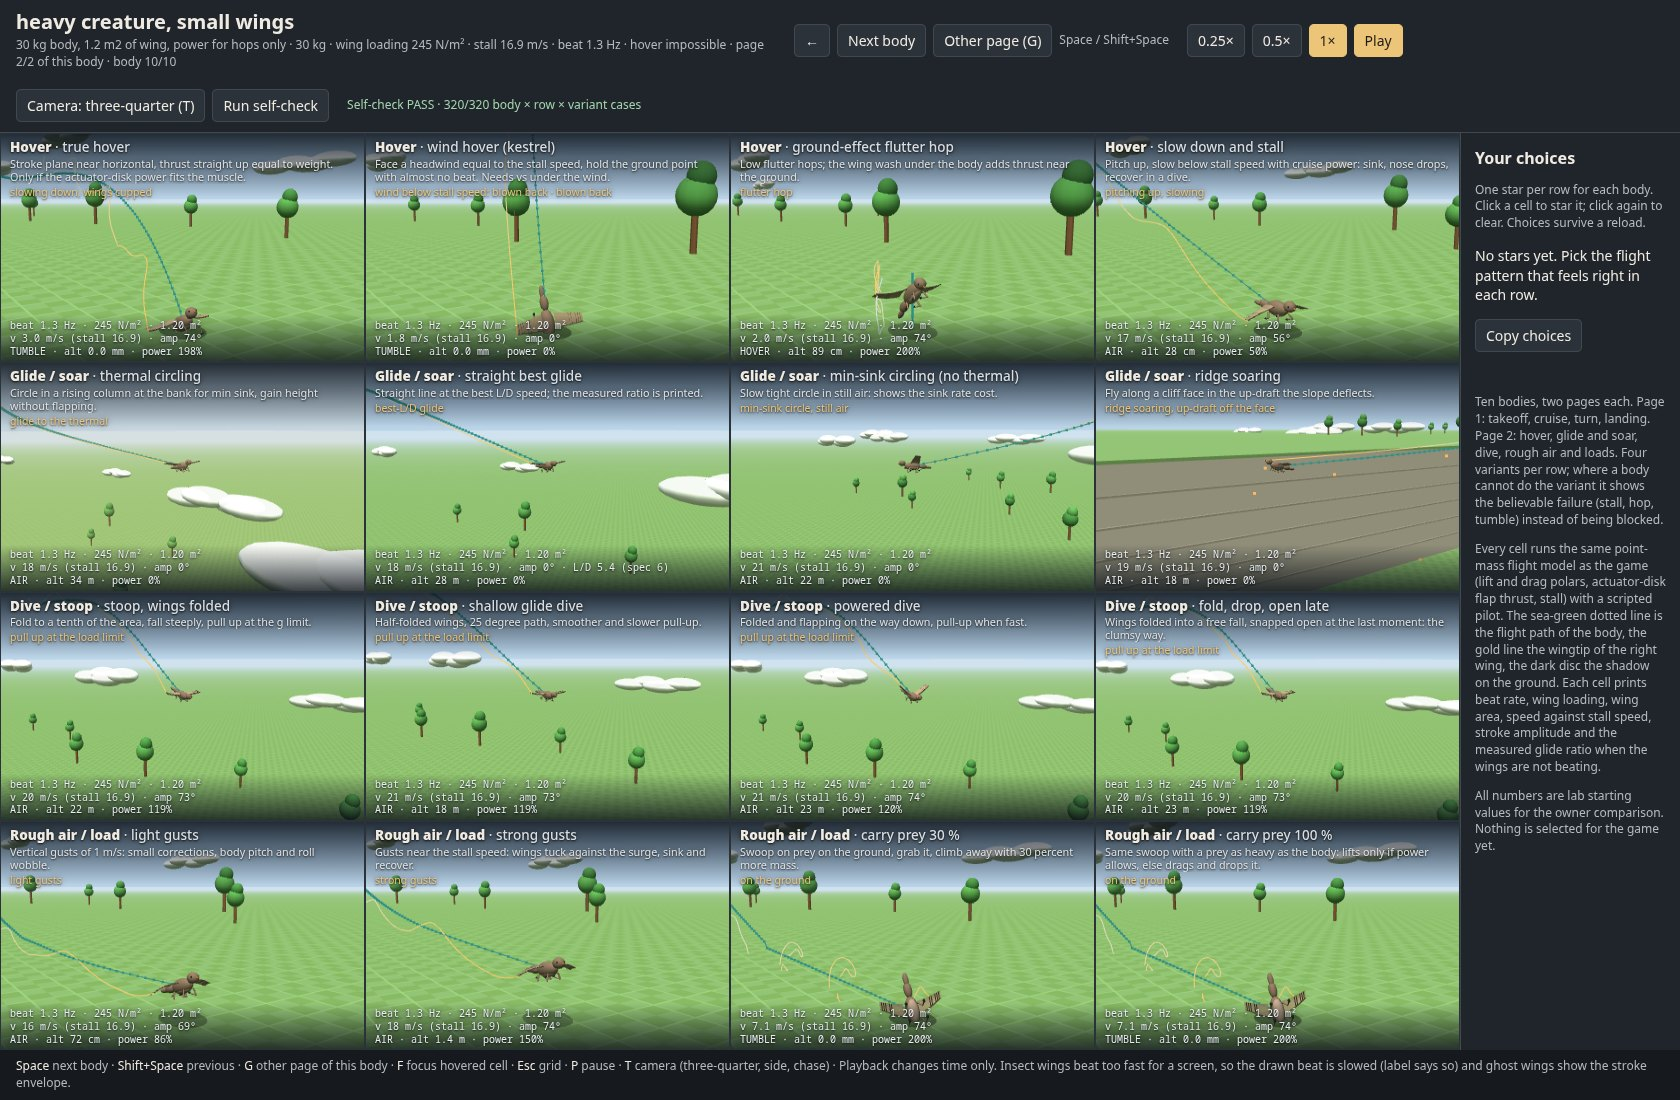
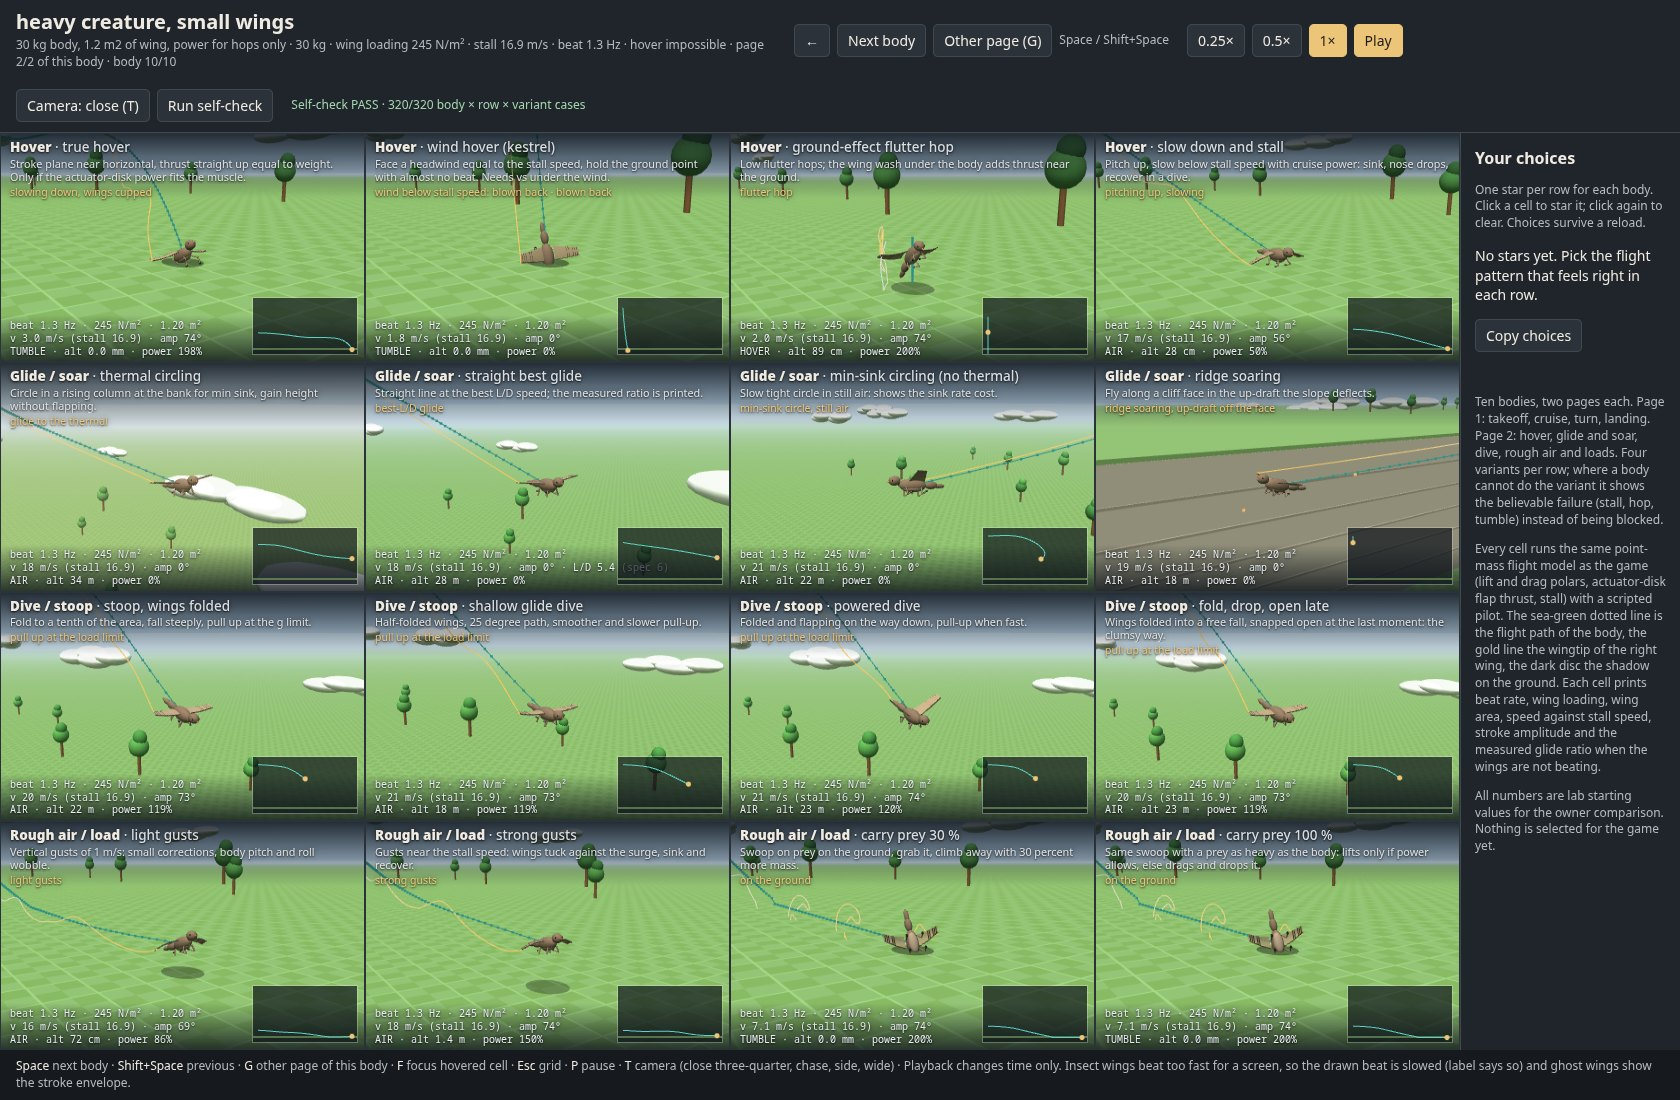
Flight styles: close follow camera by default (close 3/4, chase, side, wide) and a path mini-map per cell; re-captured

diff --git a/web/gaitlab/flight.html b/web/gaitlab/flight.html
@@ -12,7 +12,7 @@ html,body{height:100%}body{display:flex;flex-direction:column}main{display:grid;
 .cell::before{content:"";position:absolute;left:0;right:0;top:0;height:64px;background:linear-gradient(#0c1218d8,#0c121800);pointer-events:none}.cell::after{content:"";position:absolute;left:0;right:0;bottom:0;height:46px;background:linear-gradient(#0c121800,#0c1218cc);pointer-events:none}
 .title,.description,.adapt,.star,.metrics{position:relative;z-index:1}
 .title{display:block;font-size:13.5px;font-weight:650;line-height:1.15;padding-right:22px}.title i{font-style:normal;color:#d7dde2;font-weight:500}.cell[data-row=turn] .title b{color:var(--turn)}.description{display:block;color:#dfe3e6;font-size:10.8px;margin-top:2px;line-height:1.2;max-height:2.45em;overflow:hidden}.adapt{display:block;font-size:10.5px;color:var(--gold);line-height:1.2;margin-top:2px;min-height:1.2em}.star{position:absolute;right:8px;top:3px;font-size:20px;color:var(--gold)}
-.metrics{position:absolute;bottom:4px;left:9px;font:10px/1.28 ui-monospace,monospace;color:#e8eef2;white-space:pre}.cell[hidden]{display:none}
+.mini{position:absolute;right:6px;bottom:6px;z-index:1;border:1px solid #ffffff40;pointer-events:none}.metrics{position:absolute;bottom:4px;left:9px;font:10px/1.28 ui-monospace,monospace;color:#e8eef2;white-space:pre}.cell[hidden]{display:none}
 aside{padding:14px;background:var(--panel);border-left:1px solid var(--line);overflow:auto;min-height:0}h2{font-size:16px;margin:0 0 8px}aside p{font-size:12px;color:var(--dim)}#choices{margin:14px 0}#choices p{margin:10px 0;color:var(--ink)}#choices strong{display:block;color:var(--gold)}#copy-status{min-height:18px}textarea{width:100%;min-height:100px;color:var(--ink);background:var(--bg);border:1px solid var(--line);padding:6px}
 footer{padding:8px 16px;color:var(--dim);font-size:12px}kbd{font:inherit;color:var(--ink)}
 #stage.expanded{position:fixed;inset:0;height:100vh;min-height:0;z-index:10;background:var(--bg)}#stage.expanded #cells{display:block}#stage.expanded .cell{width:100%;height:100%;padding:24px}#stage.expanded .title{font-size:24px}#stage.expanded .description{font-size:14px}#stage.expanded .adapt{font-size:14px}#stage.expanded .metrics{font-size:13px}#close-full{position:absolute;right:15px;bottom:40px;z-index:12}#check.fail{color:#ff998c}#check.pass{color:#a3d4ad}
@@ -26,12 +26,12 @@ footer{padding:8px 16px;color:var(--dim);font-size:12px}kbd{font:inherit;color:v
 <div id="identity"><h1 id="creature-name">starter B</h1><div id="body-note"></div></div>
 <div class="controls"><button id="prev" aria-label="Previous body">←</button><button id="next">Next body</button><button id="other" title="Other page of the same body (G)">Other page (G)</button><span class="hint">Space / Shift+Space</span></div>
 <div class="controls" id="playback" aria-label="Playback"><button data-rate=".25" aria-pressed="false">0.25×</button><button data-rate=".5" aria-pressed="false">0.5×</button><button data-rate="1" aria-pressed="true">1×</button><button id="pause" aria-pressed="false">Pause</button></div>
-<div class="controls"><button id="cam" aria-pressed="false" title="Three-quarter, side or chase camera (T)">Camera (T)</button><button id="runcheck">Run self-check</button></div>
+<div class="controls"><button id="cam" aria-pressed="false" title="Close three-quarter, chase, side or wide camera (T)">Camera (T)</button><button id="runcheck">Run self-check</button></div>
 <span id="check" role="status">20 pages · 10 bodies × 8 rows × 4 variants · self-check not run</span>
 </header>
 <main><div id="stage"><canvas id="gl" aria-label="Flight movement comparisons over a field with trees, four columns per row"></canvas><div id="cells"></div><button id="close-full" hidden>Exit full view · Esc</button></div>
 <aside><h2>Your choices</h2><p>One star per row for each body. Click a cell to star it; click again to clear. Choices survive a reload.</p><div id="choices"></div><button id="copy">Copy choices</button><p id="copy-status" role="status" aria-live="polite"></p><textarea id="copy-fallback" aria-label="Choices to copy manually" hidden readonly></textarea><p>Ten bodies, two pages each. Page 1: takeoff, cruise, turn, landing. Page 2: hover, glide and soar, dive, rough air and loads. Four variants per row; where a body cannot do the variant it shows the believable failure (stall, hop, tumble) instead of being blocked.</p><p>Every cell runs the same point-mass flight model as the game (lift and drag polars, actuator-disk flap thrust, stall) with a scripted pilot. The sea-green dotted line is the flight path of the body, the gold line the wingtip of the right wing, the dark disc the shadow on the ground. Each cell prints beat rate, wing loading, wing area, speed against stall speed, stroke amplitude and the measured glide ratio when the wings are not beating.</p><p>All numbers are lab starting values for the owner comparison. Nothing is selected for the game yet.</p></aside></main>
-<footer><kbd>Space</kbd> next body · <kbd>Shift+Space</kbd> previous · <kbd>G</kbd> other page of this body · <kbd>F</kbd> focus hovered cell · <kbd>Esc</kbd> grid · <kbd>P</kbd> pause · <kbd>T</kbd> camera (three-quarter, side, chase) · Playback changes time only. Insect wings beat too fast for a screen, so the drawn beat is slowed (label says so) and ghost wings show the stroke envelope.</footer>
+<footer><kbd>Space</kbd> next body · <kbd>Shift+Space</kbd> previous · <kbd>G</kbd> other page of this body · <kbd>F</kbd> focus hovered cell · <kbd>Esc</kbd> grid · <kbd>P</kbd> pause · <kbd>T</kbd> camera (close three-quarter, chase, side, wide) · Playback changes time only. Insect wings beat too fast for a screen, so the drawn beat is slowed (label says so) and ghost wings show the stroke envelope.</footer>
 <script>
 'use strict';
 (() => {
@@ -1151,16 +1151,16 @@ function placeProps(C,cam){
 const FOV=34;
 function placeCam(C,cam,aspect,mode,dt){
   const B=C.B,F=C.F;const bw=Math.max(B.b,3.2*B.L);
-  const wantH=clamp(.95*(F.pos.y+bw),2.2*bw,4.4*bw);
+  const wide=mode==='wide';const wantH=wide?clamp(.95*(F.pos.y+bw),2.2*bw,4.4*bw):2.5*bw;
   C.vh+=(wantH-C.vh)*Math.min(1,dt*3+.02);
   const Hv=C.vh,D=(Hv/2)/Math.tan(FOV*D2R/2)*(mode==='side'?1:1.05);
   C.cx+=(F.pos.x-C.cx)*Math.min(1,dt*8+.02);C.cz+=(F.pos.z-C.cz)*Math.min(1,dt*8+.02);
-  const cy=Math.max(.4*Hv,F.pos.y-.05*Hv);
+  const cy=wide?Math.max(.4*Hv,F.pos.y-.05*Hv):F.pos.y+.04*Hv;
   cam.fov=FOV;cam.aspect=aspect;cam.near=D*.02;cam.far=D*400;
   let px,py,pz,tx=C.cx,ty=cy,tz=C.cz;
   if(mode==='side'){px=tx;py=ty;pz=tz+D;}
-  else if(mode==='chase'){const h=F.psiB;const el=.30;px=F.pos.x-Math.cos(h)*D*Math.cos(el);pz=F.pos.z-Math.sin(h)*D*Math.cos(el);py=Math.max(F.pos.y,.3*Hv)+D*Math.sin(el)*.7;tx=F.pos.x+Math.cos(h)*.12*Hv;tz=F.pos.z+Math.sin(h)*.12*Hv;ty=Math.max(F.pos.y*.7,.32*Hv);}
-  else{px=tx+D*.82;py=ty+D*.13;pz=tz+D*.57;}
+  else if(mode==='chase'){const h=F.psiB;const el=.30;px=F.pos.x-Math.cos(h)*D*Math.cos(el);pz=F.pos.z-Math.sin(h)*D*Math.cos(el);py=F.pos.y+D*Math.sin(el)*.8;tx=F.pos.x+Math.cos(h)*.1*Hv;tz=F.pos.z+Math.sin(h)*.1*Hv;ty=F.pos.y;}
+  else{px=tx+D*.82;py=ty+D*(wide?.13:.2);pz=tz+D*.57;}
   cam.position.set(px,py,pz);cam.lookAt(tx,ty,tz);cam.updateProjectionMatrix();
   C.dome.position.copy(cam.position);C.dome.scale.setScalar(cam.far*.8);
   return D;
@@ -1170,7 +1170,7 @@ function placeCam(C,cam,aspect,mode,dt){
 const $=id=>document.getElementById(id);
 const PAGES=[];BODIES.forEach((b,bi)=>[0,1].forEach(h=>PAGES.push({b,bi,half:h,rows:ROWS.slice(4*h,4*h+4)})));
 const KEY='primigenia-flight-styles-v1';
-let pageIndex=0,rate=1,paused=false,cells=[],hovered=0,focused=-1,manual=false,camMode='three-quarter';
+let pageIndex=0,rate=1,paused=false,cells=[],hovered=0,focused=-1,manual=false,camMode='close';
 let choices={};try{choices=JSON.parse(localStorage.getItem(KEY)||'{}');if(!choices||typeof choices!=='object'||Array.isArray(choices))choices={};}catch{choices={};}
 const renderer=new THREE.WebGLRenderer({canvas:$('gl'),antialias:true,preserveDrawingBuffer:true});renderer.setPixelRatio(1);renderer.setClearColor('#cfe2ee');
 let W=1,H=1;
@@ -1191,7 +1191,7 @@ function selectPage(i){
   const P=PAGES[pageIndex],b=P.b;$('cells').style.setProperty('--rows',4);$('cells').replaceChildren();
   P.rows.forEach((rk,r)=>{b.rowVars[rk].forEach((vid,v)=>{
     const el=document.createElement('button');el.className='cell';el.dataset.row=rk;el.setAttribute('aria-pressed','false');
-    el.innerHTML='<span class="title"><b></b> <i></i></span><span class="description"></span><span class="adapt"></span><span class="star" aria-hidden="true"></span><span class="metrics"></span>';
+    el.innerHTML='<span class="title"><b></b> <i></i></span><span class="description"></span><span class="adapt"></span><span class="star" aria-hidden="true"></span><span class="metrics"></span><canvas class="mini" width="104" height="56"></canvas>';
     const idx=r*4+v;el.addEventListener('pointerenter',()=>hovered=idx);el.addEventListener('focus',()=>hovered=idx);el.addEventListener('click',()=>toggle(idx));$('cells').appendChild(el);
     const C=makeCell(P,rk,vid);C.el=el;cells.push(C);
     el.querySelector('b').textContent=ROWLABEL[rk];el.querySelector('i').textContent='· '+VAR[rk][vid][0];el.querySelector('.description').textContent=VAR[rk][vid][1];
@@ -1227,17 +1227,23 @@ function renderAll(dt){
     const D=placeCam(C,C.cam,cw/ch,camMode,dt);placeProps(C,C.cam);updateRig(C.rig,C.B,C.F);
     C.S.fog.near=D*2.2;C.S.fog.far=D*40;
     renderer.setViewport(x,H-y-ch,cw,ch);renderer.setScissor(x,H-y-ch,cw,ch);renderer.render(C.S,C.cam);
-    C.el.querySelector('.metrics').textContent=label(C);
+    C.el.querySelector('.metrics').textContent=label(C);drawMini(C);
     const F=C.F;const ad=C.el.querySelector('.adapt');const oc=F.done?outcomeOf(C.B,C.row,C.vid,F):'';ad.textContent=F.ph+(oc?' · '+oc:'');
   });
 }
+function drawMini(C){const cv=C.el.querySelector('.mini'),x=cv.getContext('2d'),w=104,h=56;x.clearRect(0,0,w,h);x.fillStyle='#0c1218b0';x.fillRect(0,0,w,h);
+  const n=C.pathN,p=C.pathPos;if(n<2)return;let x0=1e9,x1=-1e9,y1=0;for(let i=700-n;i<700;i++){x0=Math.min(x0,p[i*3]);x1=Math.max(x1,p[i*3]);y1=Math.max(y1,p[i*3+1]);}
+  const gy=C.F.env.ground(C.F.pos.x,0);y1=Math.max(y1,gy+1e-6);const sx=(w-10)/Math.max(x1-x0,y1*1.5,1e-9),sy=(h-12)/Math.max(y1,1e-9),s=Math.min(sx,sy);
+  const X=v=>5+(v-x0)*s,Y=v=>h-5-v*s;x.strokeStyle='#8fbf72';x.beginPath();x.moveTo(0,Y(0));x.lineTo(w,Y(0));x.stroke();
+  x.strokeStyle='#5fd0c4';x.beginPath();for(let i=700-n;i<700;i++){const px=X(p[i*3]),py=Y(p[i*3+1]-C.B.hcom);i===700-n?x.moveTo(px,py):x.lineTo(px,py);}x.stroke();
+  x.fillStyle='#edc578';x.beginPath();x.arc(X(C.F.pos.x),Y(C.F.pos.y-C.B.hcom),2.5,0,7);x.fill();}
 function focusCell(i){if(i>=0&&document.fullscreenEnabled&&!document.fullscreenElement)$('stage').requestFullscreen().catch(()=>{});else if(i<0&&document.fullscreenElement)document.exitFullscreen().catch(()=>{});focused=i;$('stage').classList.toggle('expanded',i>=0);$('close-full').hidden=i<0;cells.forEach((C,k)=>C.el.hidden=i>=0&&k!==i);layout();renderAll(0);}
 function setPause(v){paused=v;$('pause').textContent=v?'Play':'Pause';$('pause').setAttribute('aria-pressed',String(v));}
-const CAMS=['three-quarter','side','chase'];
-function setCam(m){camMode=m;$('cam').textContent='Camera: '+m+' (T)';$('cam').setAttribute('aria-pressed',String(m!=='three-quarter'));for(const C of cells)C.vh=C.vh;renderAll(1);}
+const CAMS=['close','chase','side','wide'];
+function setCam(m){camMode=m;$('cam').textContent='Camera: '+m+' (T)';$('cam').setAttribute('aria-pressed',String(m!=='close'));for(const C of cells)C.vh=C.vh;renderAll(1);}
 document.addEventListener('fullscreenchange',()=>{if(!document.fullscreenElement&&focused>=0)focusCell(-1);else layout();});
 const nextBody=d=>{const P=PAGES[pageIndex];selectPage(((P.bi+d+BODIES.length)%BODIES.length)*2+P.half);};
-$('prev').onclick=()=>nextBody(-1);$('next').onclick=()=>nextBody(1);$('close-full').onclick=()=>focusCell(-1);$('pause').onclick=()=>setPause(!paused);$('cam').onclick=()=>setCam(CAMS[(CAMS.indexOf(camMode)+1)%3]);
+$('prev').onclick=()=>nextBody(-1);$('next').onclick=()=>nextBody(1);$('close-full').onclick=()=>focusCell(-1);$('pause').onclick=()=>setPause(!paused);$('cam').onclick=()=>setCam(CAMS[(CAMS.indexOf(camMode)+1)%4]);
 $('other').onclick=()=>{const P=PAGES[pageIndex];selectPage(P.bi*2+(1-P.half));};
 for(const button of document.querySelectorAll('[data-rate]'))button.onclick=()=>{rate=Number(button.dataset.rate);document.querySelectorAll('[data-rate]').forEach(x=>x.setAttribute('aria-pressed',String(x===button)));};
 $('copy').onclick=async()=>{const text=choicesText();if(!text){$('copy-status').textContent='Star a cell first.';return;}try{if(!navigator.clipboard)throw Error('unavailable');await navigator.clipboard.writeText(text);$('copy-status').textContent='Copied. Paste into chat.';$('copy-fallback').hidden=true;}catch{const area=$('copy-fallback');area.hidden=false;area.value=text;area.focus();area.select();let copied=false;try{copied=document.execCommand('copy');}catch{}$('copy-status').textContent=copied?'Copied. Paste into chat.':'Press Ctrl+C / Cmd+C to copy the selected choices.';}};

diff --git a/docs/evidence/loco/flight.md b/docs/evidence/loco/flight.md
@@ -1,6 +1,6 @@
 # Flight-style picker (owner 2026-11-22: "I want to debug flying movement patterns. Let's make the same exercise")
 
-Open [flight.html](../../../web/gaitlab/flight.html) directly with `file://` (local three.js r128, no network). Same shell as the move-style rounds ([styles4.md](styles4.md)): **Space / Shift+Space** next / previous body, **G** other page of the same body, click a cell to star it (one star per row), **Copy choices** gives `<body>: <row>=<variant>; ...`, **F** focus the hovered cell, **Esc**, **P** pause, 0.25x / 0.5x / 1x, **T** cycles the camera (three-quarter, side, chase). Choices persist in `localStorage` (read and written inside try/catch). **Awaiting owner choice; nothing here is approved or ported.** All numbers are lab starting values, not measured animal data.
+Open [flight.html](../../../web/gaitlab/flight.html) directly with `file://` (local three.js r128, no network). Same shell as the move-style rounds ([styles4.md](styles4.md)): **Space / Shift+Space** next / previous body, **G** other page of the same body, click a cell to star it (one star per row), **Copy choices** gives `<body>: <row>=<variant>; ...`, **F** focus the hovered cell, **Esc**, **P** pause, 0.25x / 0.5x / 1x, **T** cycles the camera (close three-quarter = default, close chase, close side, wide), each cell has a side-profile mini-map of the whole path. Choices persist in `localStorage` (read and written inside try/catch). **Awaiting owner choice; nothing here is approved or ported.** All numbers are lab starting values, not measured animal data.
 
 Evidence: `docs/evidence/loco/flight/` (one JPG per page, `table.json` with every cell's outcome, `focus_cell.jpg`, `laptop.jpg`). Tools: `tools/gaitlab/flight_capture.cjs` (SwiftShader only), `tools/gaitlab/flight_check.cjs` (the same engine and assertions in Node, `--table` prints every cell).
 
@@ -58,7 +58,7 @@ Result 2026-11-22: **PASS, 320/320 cases** (3 s in Node). Per cell it asserts:
 - Wingbeat `f = c m^(-1/3)` with c = 4.8 for feathered wings and bats (4.3), 4.0 for the pterosaur and heavy body, 2.2 for the dragonfly, 4.0 for the beetle. Geometric similarity gives -1/3; Pennycuick 1996 (Bird Flight Performance) fits `f ~ m^(3/8) b^(-23/24) S^(-1/3)` for birds. **Unchecked, from memory.** Both the housefly (about 200 Hz at 12 mg) and a pigeon (6-7 Hz at 0.4 kg) land close with c = 4.8; the dragonfly and beetle needed their own c. The game's `LocoWing.beat_hz` uses `4.5 m^-1/6` (2.5 Hz at 36 kg); the lab shows both for the starters.
 - Hover power: induced power of an actuator disk `P = fp T^1.5 / sqrt(2 rho A_d)` with `fp` = 2.0 for vertebrates and 1.5 for insects (profile and losses), `A_d` = swept area of the stroke. Available power = `muscle * m * 150 W` as in `flight_test.gd`, x2 for burst (game: stamina drains about 12 s). Reality check: the kestrel and the fruit bat hover on burst only, the fly and dragonfly sustain it, the 25 kg pterosaur and both starters cannot, which matches what such animals do.
 - Visual beat rate: above 9 Hz the drawn rate is `9 + 1.5 log2(f / 9)` so a 60 Hz screen does not alias, and insects get four ghost wings per wing. The physics uses the true average thrust, not the beat.
-- Camera size: the vertical extent follows 0.95 (altitude + span) clamped to 2.2-4.4 body spans, so a body always fills about a fifth of the cell; zoom out only on the dive row.
+- Camera: the close views frame 2.5 body spans of height centred on the body (creature about 40 % of the cell width); the wide view keeps the old 2.2-4.4 span framing with the ground in shot.
 
 ## Documented biology vs speculative
 Documented (qualitatively): upstroke wrist flexion and feather opening in birds; deep flexible bat stroke with an inflated membrane on the downstroke; figure-8 insect stroke with supination at reversals and hover with a near-horizontal stroke plane; dragonfly fore / hind wings beating out of phase (0.5 in forward flight, about 0.25 in hover); beetle elytra opening before the hindwings unfold; intermittent flap-glide and flap-bound flight (Rayner 1977 and later); wind or kestrel hover; flare with legs forward, tail spread and a stalled touchdown; perch landings that trade speed for height below the perch; flying squirrels launching from trunks and gliding at L/D about 2 to 3; thermal and ridge soaring; wingover; the g limit on a stoop pull-up; ground effect near the wing span height. Pterosaur quadrupedal vault launch (Habib 2008, from memory).
